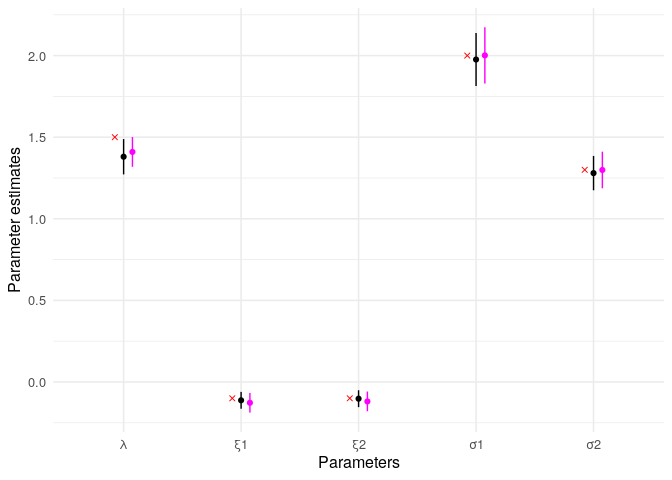
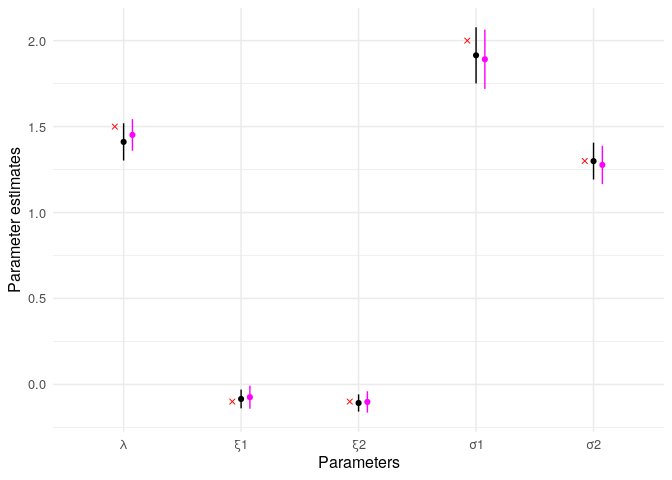
updating readme ex

diff --git a/README.md b/README.md
@@ -70,10 +70,10 @@ fit_hrc(u = data[,1], v = data[,2], initial_est = 1)
 ```
 
     ## $estimate
-    ## [1] 1.409737
+    ## [1] 1.451438
     ## 
     ## $ci
-    ## [1] 1.318568 1.500907
+    ## [1] 1.359619 1.543256
 
 ### Esimating generalised pareto marings and dependence parameter of a Hüsler-Reiss copula jointly
 
